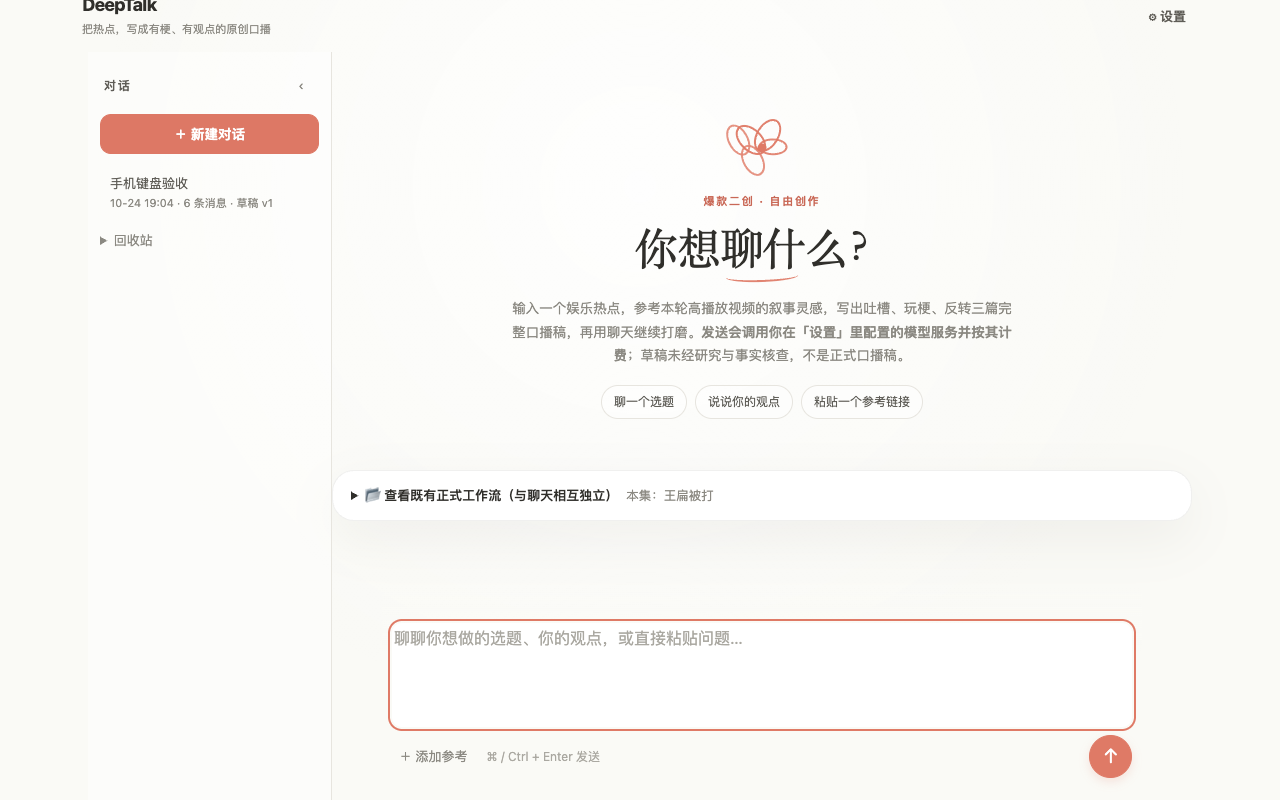
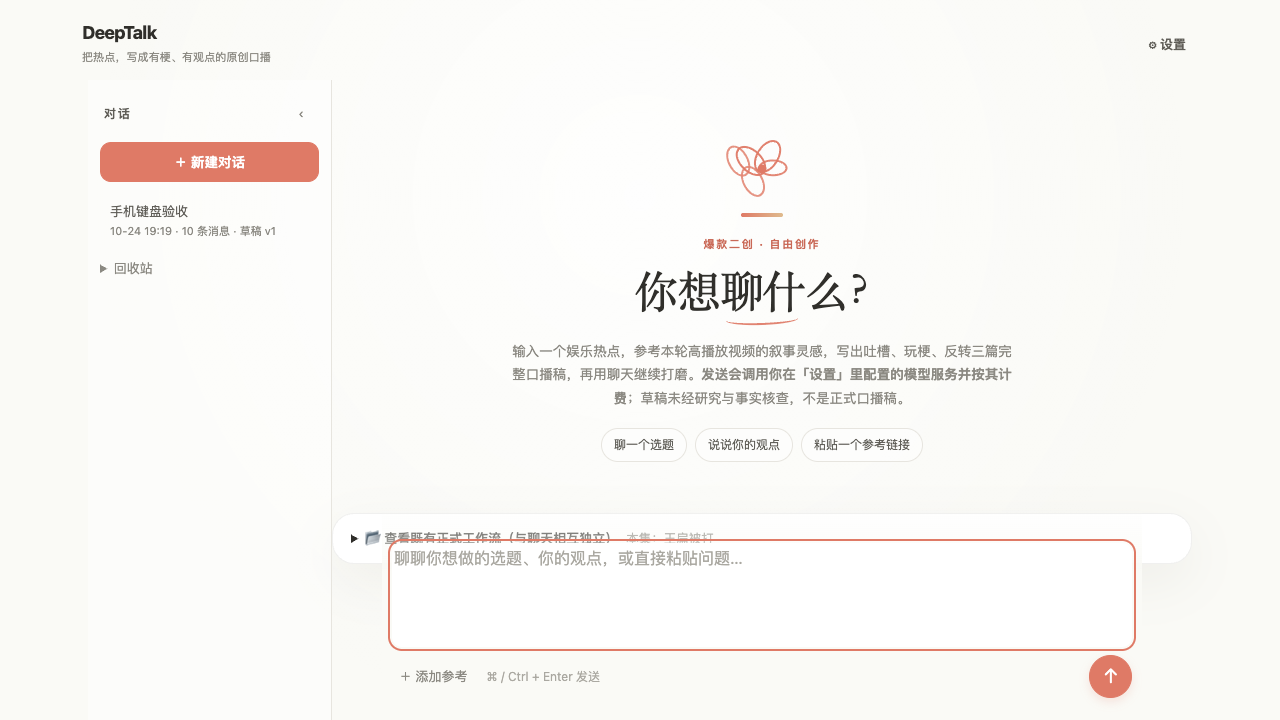
fix: bound multibyte reference filenames and verify final edge cases

diff --git a/src/deeptalk_studio/webui_static/index.html b/src/deeptalk_studio/webui_static/index.html
@@ -577,7 +577,7 @@
      the compact primary action above stays circular like the reference UI. */
 
   /* A restrained static accent keeps idle UI quiet and costs no WebGL loop. */
-  .hero::before { content: ''; display: block; width: 42px; height: 4px; margin: 0 auto 18px;
+  .hero-kicker::before { content: ''; display: block; width: 42px; height: 4px; margin: 0 auto 18px;
     border-radius: 8px; background: linear-gradient(90deg, var(--coral), #dfbb8e); }
   .session-row { position: relative; display: flex; align-items: start; gap: 2px; }
   .session-row > button { flex: 1; min-width: 0; padding-right: 30px; }

diff --git a/tests/test_remix.py b/tests/test_remix.py
@@ -264,3 +264,19 @@ class RemixReanalysisTests(_UserSettingsIsolatedTestCase):
             flow.store.update(sid,lambda s:s['references'].update({bvid:{'status':'analyzed','media_path':str(media),'study_path':str(study)}}))
             self.assertEqual(flow.analyze_reference(sid,bvid)['study']['narrative_summary'],'已有叙事摘要')
             factory.assert_not_called()
+
+class RemixUnicodeFilenameTests(_UserSettingsIsolatedTestCase):
+    def test_multibyte_title_stays_within_filesystem_byte_limit(self):
+        with tempfile.TemporaryDirectory() as raw:
+            root=Path(raw)
+            reference={'title':'😀'*80,'bvid':'BV1fixture01','url':'https://www.bilibili.com/video/BV1fixture01',
+                       'view_count':123456,'view_count_status':'verified','view_count_source':'per_video_api'}
+            def runner(cmd,**kwargs):
+                path=Path(cmd[cmd.index('-o')+1].replace('%(ext)s','mp4'))
+                self.assertLessEqual(len(path.name.encode('utf-8')),255)
+                path.write_bytes(b'fixture')
+                return subprocess.CompletedProcess(cmd,0,json.dumps({'_filename':str(path)}),'')
+            result=acquisition.acquire_reference(reference,root,'我授权学习本地验收媒体',runner=runner)
+            self.assertTrue(result['media_path'].endswith('-BV1fixture01-123456播放.mp4'))
+            transcript_name=acquisition.sanitize_filename(reference['title'])+'-BV1fixture01-口播转写.txt'
+            self.assertLessEqual(len(transcript_name.encode('utf-8')),255)

diff --git a/src/deeptalk_studio/workbench/acquisition.py b/src/deeptalk_studio/workbench/acquisition.py
@@ -61,7 +61,9 @@ def _sha256_file(path: Path) -> str:
 def sanitize_filename(value: str, limit: int = 60) -> str:
     cleaned = re.sub(r"[\\/:*?\"<>|\n\r\t]+", "_", value).strip(" ._-")
     cleaned = re.sub(r"_+", "_", cleaned)
-    return (cleaned or "reference")[:limit]
+    # Reserve UTF-8 bytes for BVID, collision suffix and play-count/export markers.
+    # A character limit alone lets emoji exceed the filesystem 255-byte limit.
+    return (cleaned or "reference")[:limit].encode("utf-8")[:160].decode("utf-8", "ignore")
 
 
 def authorize(authorization_text: str) -> str:

diff --git a/docs/superpowers/plans/2026-10-24-remix-one-shot.md b/docs/superpowers/plans/2026-10-24-remix-one-shot.md
@@ -27,8 +27,10 @@
 ## Execution ledger
 
 - Same branch / same PR, sole executor as Owner requested; no worktree cleanup or subagent review.
-- RED→GREEN regressions demonstrated wrong-topic drafts, unbounded wait, missing management/export APIs, missing filename suffix, missing real JSON offsets, unapproved Whisper bootstrap, missing current saved draft context, and repeated paid analysis. 13 new tests; old singleton test now asserts first-write-wins per topic.
-- Browser RED→GREEN additionally corrected mobile close/backdrop/reopen. Final full pytest 1152 passed / 7 skipped; bare unittest 1159 tests OK / 7 skipped. Static JavaScript parse and diff check clean.
+- RED→GREEN regressions demonstrated wrong-topic drafts, unbounded wait, missing management/export APIs, missing filename suffix, missing real JSON offsets, unapproved Whisper bootstrap, missing current saved draft context, and repeated paid analysis. 14 new tests; old singleton test now asserts first-write-wins per topic.
+- Browser RED→GREEN additionally corrected mobile close/backdrop/reopen. Final full pytest 1153 passed / 7 skipped; bare unittest 1160 tests OK / 7 skipped. Static JavaScript parse and diff check clean.
 - Real anonymous Bilibili search returned five verified ranked candidates; four bounded real DeepSeek calls; real ffmpeg/Whisper on self-authored synthesized video. Third-party media acquisition remains fixture-only because download permission was not provided.
 - Choice: optional Three.js not enabled; static CSS accent, zero active animations/canvas and 1–2ms observed input roundtrip. No claim of a Three.js A/B benchmark.
 - Final author self-review retained Nexus as the independent acceptance reviewer. Existing Owner user-file digests and unrelated dirty files preserved. Final commit/push/runtime SHA and restart privacy check are recorded in the readiness comment, not embedded as a circular self-referential SHA in this file.
+
+- Final filename boundary RED→GREEN: 80-emoji title previously produced a 270-byte media filename. UTF-8 byte-bound title now leaves room for BVID/play-count/TXT suffixes; targeted 89 passed. Full dual-entry results updated in delivery evidence after the final rerun.

diff --git a/CHANGELOG.md b/CHANGELOG.md
@@ -3,7 +3,7 @@
 ## PR #48 candidate — 爆款二创 1.0 (2026-10-24, unreleased)
 
 - Entertainment-first three complete narration alternatives and conversational edits using the current saved draft; per-topic source isolation and bounded search feedback.
-- Ranked reference workspace reuses authorized local download/Whisper, complete TXT/JSON ASR exports and verified-play-count media filenames with safe unknown/collision handling.
+- Ranked reference workspace reuses authorized local download/Whisper, complete TXT/JSON ASR exports and verified-play-count media filenames with UTF-8 byte bounds and safe unknown/collision handling.
 - Keyboard/mobile history rename, confirmation, recoverable local trash; protects in-flight writes. Static CSS polish, no Three.js runtime enabled.
 - Candidate only; formal production Gates unchanged. Evidence: `evaluations/remix_one_shot/`.
 
